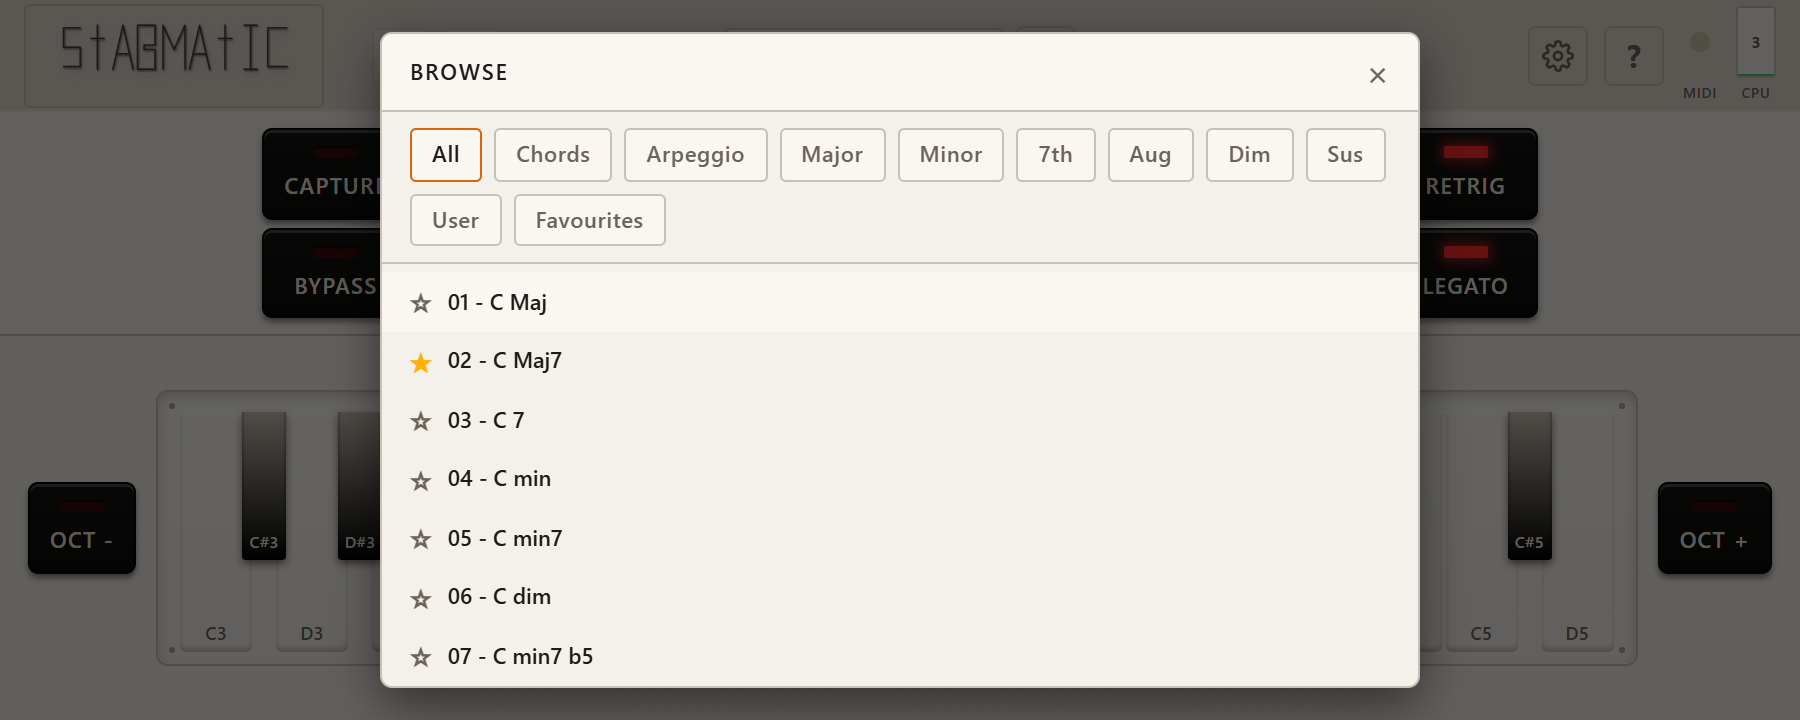
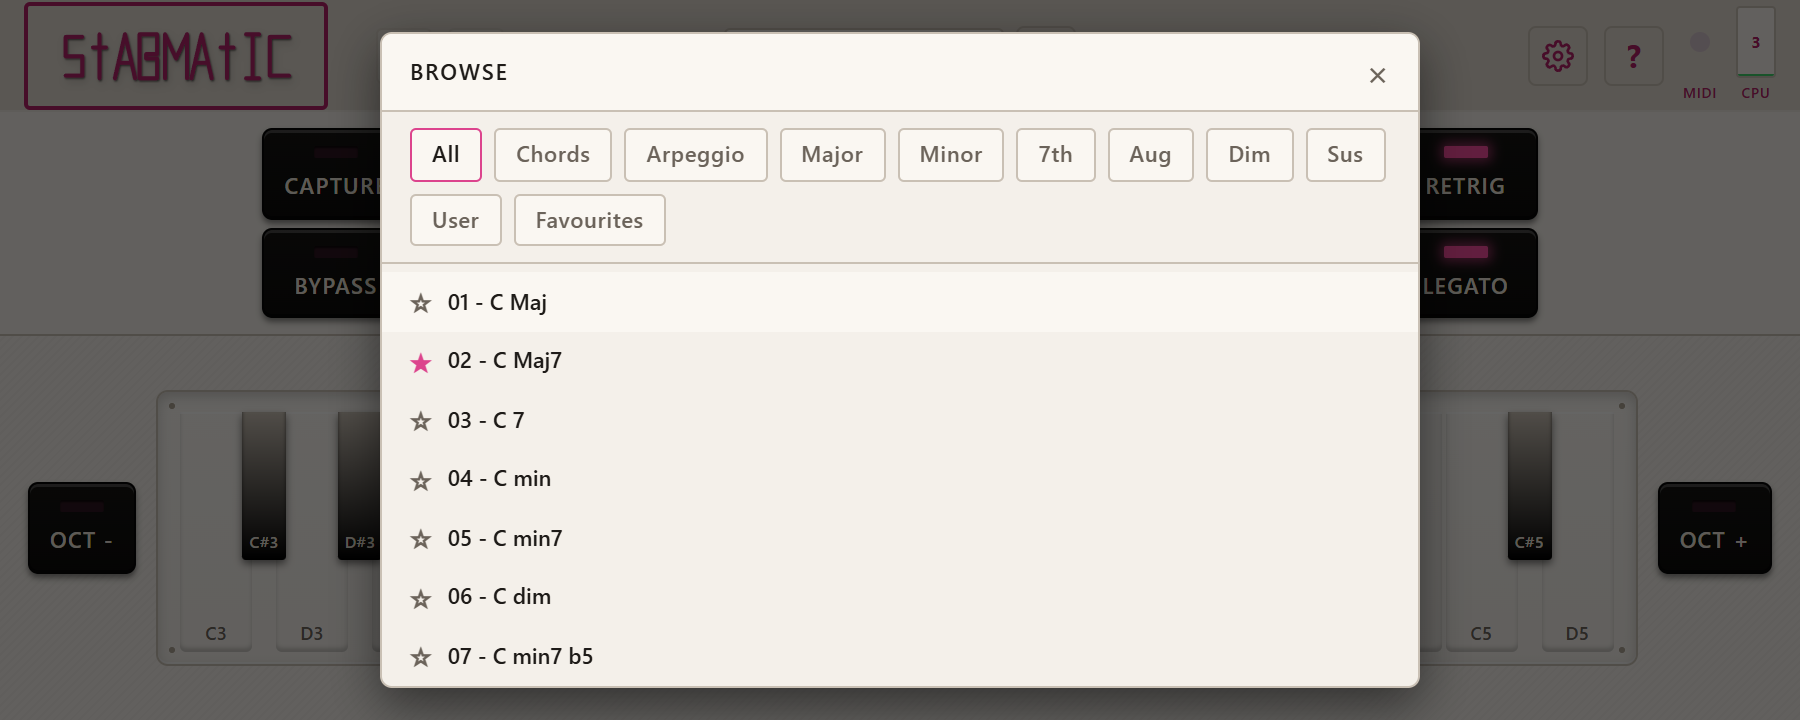
Update the screenshots for the new look
Stabmatic's accent, header and LEDs now use the pink from its logo, and the
wordmark is bolder. All sixteen screenshots are re-captured, and the manual
no longer describes the MIDI light as amber.

The remaining "Amber" in the manual is the name of a display skin, which has
not changed.

diff --git a/manual/MANUAL.md b/manual/MANUAL.md
@@ -175,7 +175,7 @@ the **name button**: it shows the name of whatever chord form is currently
 loaded, and clicking it opens the chord browser. Beside the name is the
 **Save** button, which lights up whenever you've changed the loaded form
 without saving it. On the right: a **settings** button, an **about** button,
-a **MIDI** light that glows amber on any incoming note, and a **CPU**
+a **MIDI** light that glows pink on any incoming note, and a **CPU**
 meter showing how much processing time Stabmatic is using.
 
 **Capture and Bypass**, on the left of the row below the header. Capture
